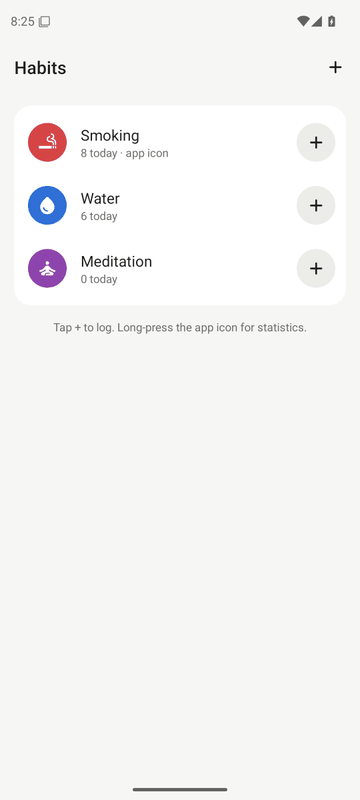
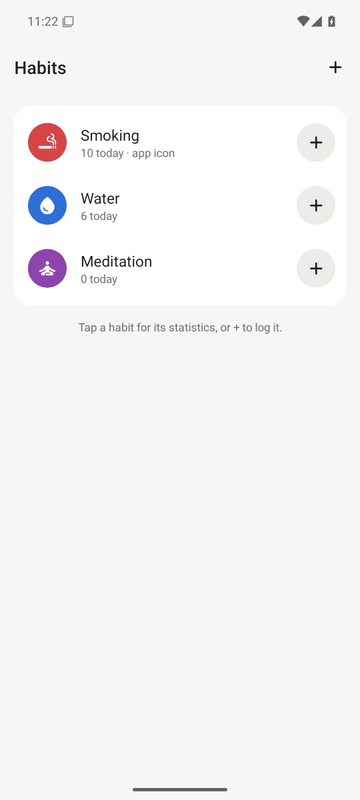
Docs: refresh screenshots for v1.1.0
Claude-Session: https://claude.ai/code/session_014cPfrNDTwEfsqCLK8PY36x

diff --git a/README.md b/README.md
@@ -14,7 +14,7 @@ Long-press for statistics.
 
 | Tap: logged in place | Long-press: statistics | History & entries | Your habits | Make it yours |
 | :---: | :---: | :---: | :---: | :---: |
-| <img src="docs/screenshots/tap.png" width="160" alt="A check pops over the tapped icon on the home screen with the text '10 today'"> | <img src="docs/screenshots/statistics.png" width="160" alt="Statistics: today's count, daily average, min, max, standard deviation, variance"> | <img src="docs/screenshots/history.png" width="160" alt="Bar chart of daily counts with a date window, and today's entries"> | <img src="docs/screenshots/habits.png" width="160" alt="List of habits with today's counts"> | <img src="docs/screenshots/edit.png" width="160" alt="Editing a habit's name, colour and icon"> |
+| <img src="docs/screenshots/tap.png" width="160" alt="A check pops up in the middle of the home screen with the text '12 today'"> | <img src="docs/screenshots/statistics.png" width="160" alt="Statistics: today's count, daily average, min, max, standard deviation, variance"> | <img src="docs/screenshots/history.png" width="160" alt="Bar chart of daily counts with a date window, and today's entries"> | <img src="docs/screenshots/habits.png" width="160" alt="List of habits with today's counts"> | <img src="docs/screenshots/edit.png" width="160" alt="Editing a habit's name, colour and icon"> |
 
 <sub>Screenshots are taken automatically by the instrumented tests on an Android 15 emulator.</sub>
 
